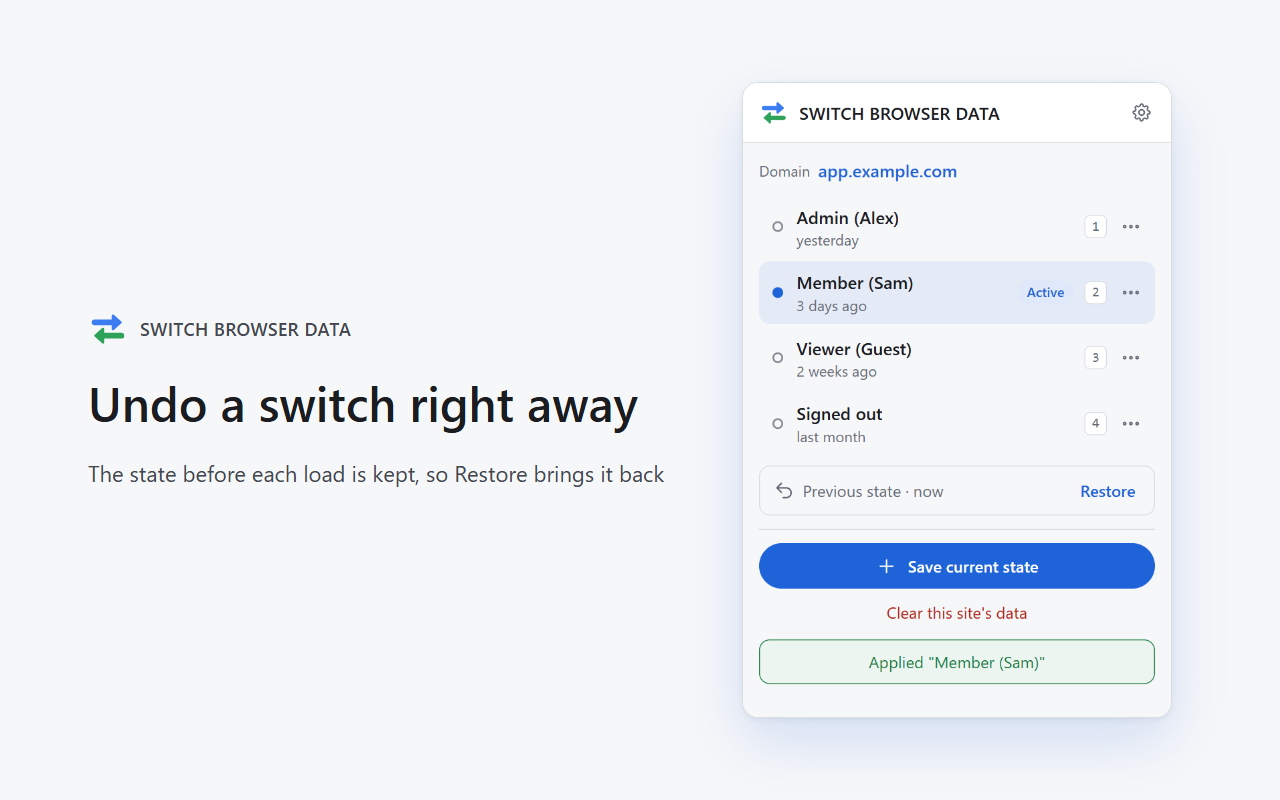
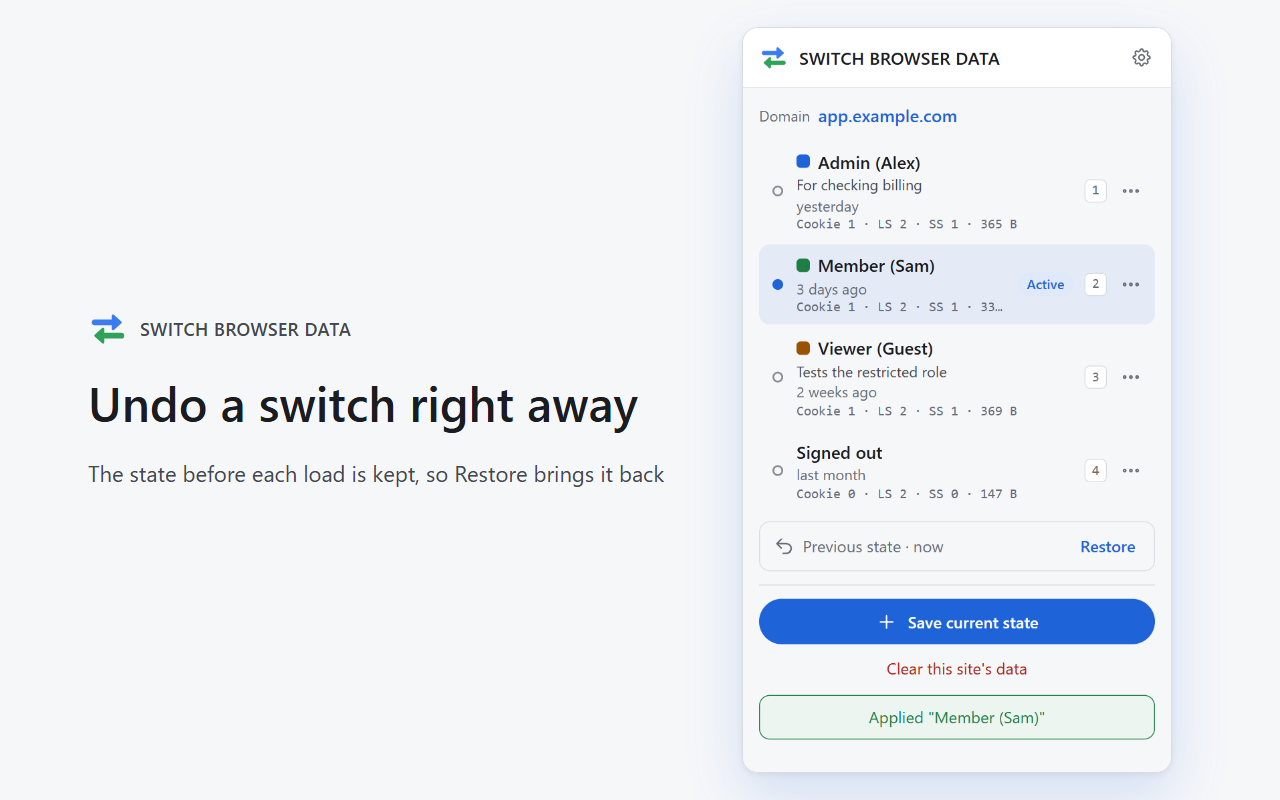
ドキュメント: グループ・メモ・暗号化エクスポートを反映し、ストア用の画像と掲載文を更新する

diff --git a/CLAUDE.md b/CLAUDE.md
@@ -22,6 +22,9 @@ Chrome / Edge 向けブラウザ拡張機能。ドメインごとに Cookie・lo
 ### スナップショット操作
 
 - **保存**: 「現在の状態を保存」から名前を入力して保存する。既存の名前なら上書き確認後に上書き。各行のメニューの「現在の状態で上書き」でも上書きできる
+  - 保存フォームでメモ（1行・100文字まで）と色ラベル（赤・橙・緑・青の4色。明暗の両方に値がある `--tk-*` の色だけ）を付けられる。行メニューの「メモと色を編集」で後から変える。上書きしてもメモと色は引き継ぐ。書き込むときはいつも `cleanDetails`（`lib/snapshot-summary.js`）を通し、改行は空白に、100文字を超える分は切り、一覧にない色は捨てる（インポートも同じ）
+  - 色ラベルは名前の前の小さなチップ。行頭の点は「適用中・変更あり」を表すので、色ラベルには使わない
+- **中身のプレビュー**: 各行にメモと `Cookie 12 · LS 4 · SS 1 · IDB 2 · 34.0 KB` のような件数と大きさを出す（`summarize`）。0件の種類は `LS 0` と出し、スナップショットにない種類は出さない。保存した Cookie に期限切れのものが1件でもあれば、控えめな警告アイコンを出す（ログインが切れているかもしれない、という知らせで、読み込みは止めない）。検索はメモにも当たる
 - **読み込み**: 一覧の行をクリック（または数字キー・`Enter`）→ 現在のデータをそのスナップショットに丸ごと置き換え
   - 自動バックアップが有効なら、読み込む直前の状態をドメインごとに1件だけ残し、確認なしで読み込む（「戻す」で復元。戻すと置き換えた状態が新しいバックアップになるので、もう一度押すと元に戻る）。無効なら読み込み前に確認する
   - 自動リロードが有効なら、読み込み後にタブを再読み込みする
@@ -34,7 +37,7 @@ Chrome / Edge 向けブラウザ拡張機能。ドメインごとに Cookie・lo
 - **サイトのデータの消去**: ポップアップの「このサイトのデータを消去」で、設定のデータ種別トグルで有効な種類（Cookie / localStorage / sessionStorage / IndexedDB）を確認後に消す。自動バックアップが有効なら消す前の状態を残し（「戻す」で復元）、適用中の記録を外し、自動リロードの設定に従って再読み込みする。IndexedDB はデータベースごと削除する（ページが接続を開いたままなら削除は予約され、再読み込みで完了する。自動リロードがオフならその旨を表示する）
   - 消す前にコンテンツスクリプトに届くか確かめ（`ping`）、届かなければ何も消さず、バックアップも上書きしない。消す順番はページの保存領域が先で Cookie が後（途中で失敗しても Cookie だけ消えた状態にしない）
   - 読み込み直後の Cookie の確認待ち（`cookieChecks`）は消去時に取り消す（空になった Cookie を「サイトが自分で消した」と覚えないため）
-  - 親ドメイン（例: `app.example.com` に対する `.example.com`）の Cookie は消えない。サイトごとのホスト権限ではその Cookie を読めないため。サブドメインをまとめて扱う #9 で扱う
+  - グループに入るサイトでは、グループの Cookie（`.example.com` と各サブドメインのもの）をまとめて消し、ページの保存領域は今のページの分だけ消す。グループに入らないサイトでは親ドメイン（例: `app.example.com` に対する `.example.com`）の Cookie は消えない（そのサイトのホスト権限ではその Cookie を読めないため。まとめて扱いたいときは設定画面でグループにする）
 - **サイトへのアクセスの許可**: Cookie の読み書きにはサイトごとのホスト権限（`optional_host_permissions`）が要る。Chrome は権限のダイアログを出すとポップアップを閉じてしまい、保存・読み込みの途中で求めるとその操作が知らせなく失われる。そのため、Cookie が有効で権限がまだないときは、ポップアップを開いた時点で一覧の代わりに「アクセスを許可」の案内を出し、許可したらもう一度開くよう伝える。Cookie を使わない人向けに設定画面への導線も置く
 
 ### ドメイン管理
@@ -43,26 +46,55 @@ Chrome / Edge 向けブラウザ拡張機能。ドメインごとに Cookie・lo
 - 設定画面でドメインの追加・削除・一覧管理が可能
 - 保存データはドメインをキーとして `chrome.storage.local` に永続化
 
+### サブドメインのグループ
+
+- 設定画面の「スナップショット」でベースのドメイン（例: `example.com`）をグループにすると、`example.com` と `*.example.com` の Cookie（`.example.com` のドメイン Cookie を含む）をまとめて保存・消去・読み込みする。ホスト権限は `*://example.com/*` と `*://*.example.com/*` の2つ
+- 追加するときは `validateNewGroup`（`lib/groups.js`）で、ドットのない名前・IP アドレス・既存のグループと重なるもの・`co.jp` のような区分（`BROAD_SECOND_LABELS`）・`github.io` のような共有ホスティング（`SHARED_HOST_SUFFIXES`）を断る。一覧は完全にはならないので、確認ダイアログでは毎回、まとめる範囲（`example.com` と `*.example.com`）と「無関係なサイトが共有するドメインには使わない」旨を出す。削除するときは `*://*.example.com/*` の権限だけ外す
+- **グループは保存したデータを動かさない**。スナップショット・並び順・バックアップは保存したホストのキーのまま残り、グループを作っても消してもインポートしても書き換えない。グループはホストをまたいだ「見え方」と Cookie の範囲にすぎない（動かすと、作成・削除・インポートのたびに並び順・適用中・バックアップ・Cookie の扱いを決める必要があり、届かなくなるスナップショットや壊す操作が生まれたため）
+  - ポップアップは、グループに入るホスト（`memberHosts`）のスナップショットを並べる（今のホストが先、ほかはホスト名順、それぞれ保存した順）。行はホストと名前で区別し、ほかのホストの行にはホスト名を出し、「現在の状態で上書き」は出さない（今のページのデータをほかのホストのキーに書いてしまうため）。新しく保存するのはいつも今のホスト
+  - ページの保存領域（localStorage・sessionStorage・IndexedDB）は、スナップショットを保存したホストと今のホストが同じときだけ書き戻す。違えば Cookie だけ適用して、その旨を表示する
+  - グループで保存したスナップショットには集めた Cookie の範囲を `cookieDomain` として残す（ないときは保存したホスト）。読み込み・比較・プレビューでは `cookieDomainFor` でその範囲と今の範囲の狭いほうに絞る。グループを作る前に保存したスナップショットはそのホストの Cookie だけを書き換え、`.example.com` やほかのサブドメインの Cookie は残す。グループを消したあとは、グループで保存したスナップショットもそのホストの範囲だけを扱う
+  - Cookie を書き戻すときは `setCookiesForDomain` が範囲の外の Cookie を捨て（インポートしたデータも含めて1か所で守る）、`.` で始まる Cookie は `domain` を付けてドメイン Cookie として戻す（グループでなくても同じ）
+  - 適用中の記録・`volatileCookies`・`cookieChecks` の `domain` はグループのベースをキーにする（Cookie はグループで共有なので、適用中のスナップショットはグループで1つ）
+
+### 設定画面
+
+- 左に項目（全般 / データ種別 / スナップショット / データ管理）、右にその項目だけを出す2列。`location.hash`（`#general` `#data-types` `#snapshots` `#data`）で開く項目を選び、リンクに `aria-current` を付ける。720px より狭いと項目は上に横並び
+- **使用量のメーター**（スナップショット）: `getBytesInUse(null)` の合計と、大きい順に5ドメイン・バックアップ・その他の積み上げ棒。上限に対する割合の棒は出さない（`unlimitedStorage` で 10 MB の上限は外れているので、上限を描くと実在しない天井に見える。手を打てるのは「どのドメインが大きいか」）。50 MB 以上で「大きいとポップアップが遅くなる」と1行だけ知らせる（ポップアップを開くたびに `snapshots` を丸ごと読み、保存のたびに丸ごと書くので、大きさは容量ではなく速さに効く。50 MB は目安で `METER_ADVISORY_BYTES` の定数1つ）
+- 並び順は「名前 / 大きい順」。大きい順のときは行のドラッグでの並べ替えをしない（見えていない順番を保存してしまうため）。行には色ラベル・メモ・大きさ・保存日時を出す（メモと色の編集はポップアップだけ）
+- **エクスポート**: 全データ・ドメインごと・スナップショットごと。暗号化しないファイルの形はいつも `{ ドメイン: { 名前: スナップショット } }`（古い版でも読める）。グループは書き出さない
+- **暗号化**: 「データ管理」のトグル（`settings.encryptExports`、既定はオフ）をオンにすると、どのエクスポートでもパスフレーズを2回（8文字以上・一致）求める。オフのときはエクスポート後に「ファイルにログイン中のセッションが入っている」と知らせ、トグルを案内する。暗号化するのはエクスポートしたファイルだけで、`chrome.storage.local` は暗号化しない（鍵をデータの横に置くなら守りにならず、ブラウザを開くたびにパスフレーズを求めるとワンクリックで切り替えられなくなるため）
+  - ファイルの形（`lib/crypto.js`）は最上位が配列の JSON: `["switch-browser-data-encrypted", { "version": 1, "kdf": "PBKDF2", "hash": "SHA-256", "iterations": 600000, "salt": "base64", "iv": "base64", "data": "base64" }]`。PBKDF2-SHA-256（60万回）で鍵を作り、AES-GCM-256（salt 16バイト、IV 12バイト）で暗号化する。暗号化より前の版はインポートで配列をすべて断るので、中身をドメインとして混ぜずに失敗する
+  - 読み込めるのは `iterations` が 100,000〜1,000,000 のものだけ（細工したファイルで何秒も止めないため）。パスフレーズ違いは AES-GCM の検証の失敗でわかる。復号した中身がもう一度暗号化ファイルなら断る
+- **インポート**: 256 MB（`IMPORT_MAX_BYTES`）を超えるファイルは読む前に断る。`parseImport`（`lib/transfer.js`）は形が `{ ドメイン: { 名前: オブジェクト } }` でない、`__proto__` `constructor` `prototype` のキーがある、`savedAt` が日時として読めない、`cookies` がオブジェクトの配列でない、ストレージの種類がオブジェクトでない、のどれかでファイルごと断る。メモと色は `cleanDetails` で整え、文字列でない `cookieDomain` は捨てる
+  - 同じドメイン・同じ名前があれば、ファイル全体で1回だけ「上書き / スキップ / 両方残す（`名前 (2)` …）/ キャンセル」を選ぶ。上書きは並び順の位置を保ち、新しい名前は末尾に足す。ドメインのキーはファイルのまま書く
+- 全データ削除は `settings` と `groups` を残す（どちらも設定のため）
+
 ### UI 構成
 
 ```mermaid
 graph TD
   popup["ポップアップ"]
-  popup --> domain["現在のドメイン表示"]
-  popup --> search["検索ボックス｜5件以上のとき表示。/ でフォーカス"]
-  popup --> list["スナップショット一覧｜行クリックで読み込み、適用中・変更ありのバッジ"]
-  list --> row_menu["行メニュー｜現在の状態で上書き / 名前を変更 / 削除"]
+  popup --> domain["現在のドメイン表示｜グループならグループのチップ"]
+  popup --> search["検索ボックス｜5件以上のとき表示。/ でフォーカス。名前とメモに当たる"]
+  popup --> list["スナップショット一覧｜行クリックで読み込み、色ラベル・メモ・中身のプレビュー・期限切れの警告、適用中・変更ありのバッジ。グループならほかのホストの行も"]
+  list --> row_menu["行メニュー｜現在の状態で上書き（今のホストの行だけ） / メモと色を編集 / 名前を変更 / 削除"]
   popup --> undo["切り替え前の状態に戻す"]
-  popup --> save["現在の状態を保存｜名前を入力して保存"]
+  popup --> save["現在の状態を保存｜名前・メモ・色を入力して保存"]
   popup --> clear_site["このサイトのデータを消去（確認あり）"]
   popup --> settings_btn["設定ボタン"]
-  settings_btn --> options["設定画面 options.html"]
+  settings_btn --> options["設定画面 options.html｜左に項目、右にその内容"]
 
-  options --> domain_list["ドメイン一覧（削除）"]
-  options --> toggles["データ種別トグル｜Cookie / localStorage / sessionStorage / IndexedDB"]
-  options --> behavior["動作トグル｜自動バックアップ / 自動リロード / アイコンのバッジ"]
-  options --> export_import["一括エクスポート / インポート"]
-  options --> clear["全データ削除"]
+  options --> general["全般｜言語 / 動作トグル（自動バックアップ / 自動リロード / アイコンのバッジ）"]
+  options --> toggles["データ種別｜Cookie / localStorage / sessionStorage / IndexedDB"]
+  options --> snapshots_pane["スナップショット"]
+  snapshots_pane --> meter["使用量のメーター"]
+  snapshots_pane --> groups["サブドメインのグループ（追加・削除）"]
+  snapshots_pane --> domain_list["ドメイン一覧｜名前順 / 大きい順、エクスポート・名前の変更・削除"]
+  options --> data_pane["データ管理"]
+  data_pane --> encrypt["エクスポートの暗号化トグル"]
+  data_pane --> export_import["全データのエクスポート / インポート"]
+  data_pane --> clear["全データ削除"]
 ```
 
 ## ディレクトリ構成
@@ -99,6 +131,10 @@ graph TD
   lib --> rename_js["inline-rename.js｜その場での名前変更（ポップアップ・設定画面で共通）"]
   lib --> digest_js["storage-digest.js｜データのハッシュ（コンテンツスクリプトとポップアップで共通の非モジュール）"]
   lib --> volatile_js["volatile-cookies.js｜サイトが自分で書き換える Cookie の記録"]
+  lib --> summary_js["snapshot-summary.js｜件数・大きさの集計、メモと色の整形"]
+  lib --> groups_js["groups.js｜サブドメインのグループと Cookie の範囲"]
+  lib --> transfer_js["transfer.js｜エクスポート・インポートの組み立てと検証"]
+  lib --> crypto_js["crypto.js｜エクスポートファイルの暗号化（Web Crypto）"]
   lib --> etc_js["badge.js / time.js / dialog.js / i18n.js / ui.js"]
   lib --> tk_base["tk-base.css｜tk3 apps の共通デザインの土台（手を加えない）"]
 
@@ -146,6 +182,10 @@ graph TD
     "example.com": {
       "スナップショット名": {
         "savedAt": "ISO 8601 timestamp",
+        "memo": "1行・100文字まで（任意）",
+        "color": "red | amber | green | blue（任意）",
+        // 集めた Cookie の範囲（グループで保存したときだけ。ないときはこのキーのホスト）
+        "cookieDomain": "example.com",
         "cookies": [ /* CookieDetails[] */ ],
         "localStorage": { "key": "value", ... },
         "sessionStorage": { "key": "value", ... },
@@ -154,21 +194,26 @@ graph TD
     }
   },
   "snapshotOrder": { "example.com": ["スナップショット名", ...] },
-  "activeSnapshots": { "example.com": "スナップショット名" },
-  // サイトが自分で書き換える Cookie。"value": 有無だけ比べる / "any": 比べない
+  // グループのベースでは、どのホストのスナップショットかも残す { host, name }
+  "activeSnapshots": { "example.org": "スナップショット名", "example.com": { "host": "app.example.com", "name": "スナップショット名" } },
+  // サブドメインのグループ（ベースのドメイン）。全データ削除でも消さない
+  "groups": ["example.com"],
+  // サイトが自分で書き換える Cookie（グループならベースがキー）。"value": 有無だけ比べる / "any": 比べない
   "volatileCookies": { "example.com": { "example.com|/|名前": "value" } },
-  // 読み込み直後の Cookie の確認待ち（タブ ID ごと、60秒で期限切れ）
-  "cookieChecks": { "123": { "domain": "example.com", "cookies": [], "until": 0 } },
+  // 読み込み直後の Cookie の確認待ち（タブ ID ごと、60秒で期限切れ）。origins は確認に要る権限、
+  // cookieDomain は今の Cookie を読む範囲。どちらもない古い記録は domain のホストだけで確かめる
+  "cookieChecks": { "123": { "domain": "example.com", "cookies": [], "origins": ["*://example.com/*", "*://*.example.com/*"], "cookieDomain": "example.com", "until": 0 } },
   // 読み込み直前の状態。ドメインごとに1件。スナップショット一覧・エクスポートには含めない
   "backups": {
     "example.com": { "savedAt": "...", "activeName": "スナップショット名 | null", "cookies": [], ... }
   },
-  // 保存されていないキーは既定値（すべて true）で補う。トグルを変えたらその場で保存する
+  // 保存されていないキーは既定値（encryptExports だけ false、ほかは true）で補う。トグルを変えたらその場で保存する
   "settings": {
     "enabledTypes": { "cookies": true, "localStorage": true, "sessionStorage": true, "indexedDB": true },
     "autoBackup": true,
     "autoReload": true,
-    "showBadge": true
+    "showBadge": true,
+    "encryptExports": false
   }
 }
 ```
@@ -210,6 +255,7 @@ graph TD
 - **ユニットテスト**: [Vitest](https://vitest.dev/)。`tests/unit/` に配置。対象は `lib/` 配下のロジックに加え、`popup/popup.js` `options/options.js`（jsdomにHTMLを読み込み、DOM操作込みで検証）。`chrome.*` API は `tests/support/chrome-mock.js` のインメモリモックを使う。`var` グローバルとして書かれた非モジュールスクリプト（`lib/web-storage-handlers.js` `lib/indexeddb-handler.js` `lib/storage-digest.js` `content/content-script.js`）は `import` できないため、`tests/support/load-script.js` でソースを読み込み `Function` コンストラクタでスコープを分離しつつ実行し、生成されたハンドラを取り出してテストする
 - **E2Eテスト**: [Playwright](https://playwright.dev/)。`launchPersistentContext` に `--load-extension` を渡して本拡張機能を実際の Chromium に読み込み、ポップアップ・設定画面の操作を検証する。テストページのポートは `tests/e2e/test-page.js` に集約されており、`TK3_E2E_PORT` で上書きできる
   - Cookie の読み取りに要るホスト権限は実行時に Chrome のダイアログで求めるが、Playwright はこれを操作できない。Cookie を扱うテスト（`tests/e2e/cookies.spec.js`）は `test.use({ grantHostPermissions: true })` で、manifest にホスト権限を足した拡張機能のコピーを一時フォルダに作って読み込む。テストページの `/cookies/` は毎回値の変わる `csrf` と、`/cookies/login?user=名前` でだけ変わる `sid` を返す
+  - グループのテスト（`tests/e2e/groups.spec.js`）は `--host-resolver-rules` で `example.test` と `*.example.test` をテストサーバーに向ける（`localhost` ではドメイン Cookie が当てにならないため）。`/group/login?user=名前` は `Domain=example.test` の `gsid` を返す
 - **実装中に手元で流すテストは、変更に関係するものだけにする**（例: `npx vitest run tests/unit/popup.test.js`、`npx playwright test tests/e2e/popup.spec.js`）。全テストは CI（GitHub Actions）で流すので、手元で `npm test` や `npm run test:e2e` を丸ごと流さなくてよい
 - テスト用の依存関係（Vitest, Playwright, jsdom, fake-indexeddb など）は devDependencies としてのみ追加可。拡張機能本体のランタイムコードに外部ライブラリを追加することは引き続き禁止
 

diff --git a/store/listing.md b/store/listing.md
@@ -1,4 +1,4 @@
-# Chrome Web Store 掲載情報（v1.0.20）
+# Chrome Web Store 掲載情報（v1.0.31）
 
 画像は `node store/generate.mjs` で作り直せる（実際の拡張機能を読み込んで撮影し、`store/images/` に書き出す）。
 
@@ -11,7 +11,7 @@
 | スクリーンショット（英語） | `images/en/screenshot-1.png` 〜 `screenshot-5.png` | 1280×800 |
 | プロモーション タイル（小） | `images/ja/promo-small.png` / `images/en/promo-small.png` | 440×280 |
 
-スクリーンショットの並び: 1 一覧と切り替え / 2 切り替え前に戻す / 3 変更あり / 4 行のメニュー / 5 設定画面
+スクリーンショットの並び: 1 一覧と切り替え（色ラベル・メモ・中身のプレビュー） / 2 切り替え前に戻す / 3 変更あり / 4 サブドメインのグループ / 5 設定画面（使用量のメーター・グループ・ドメイン一覧）
 
 ## 概要（manifest の description。ストアの一覧に出る短い説明・132 文字以内）
 
@@ -34,12 +34,17 @@
 ・データの消去：今のサイトのデータをまとめて消して、未ログインの状態からやり直せます（消す前の状態も「戻す」で戻せます）
 ・適用中の表示：今どのスナップショットを使っているかを一覧とツールバーのアイコンに表示
 ・変更の検知：適用中のスナップショットとあとから違いが出たら「変更あり」を表示し、何が変わったかがわかります。サイトが自分で書き換える Cookie は自動で比較から外し、手動で外すこともできます
-・上書き・名前の変更・削除・並べ替え、エクスポート／インポート
+・メモと色ラベル：スナップショットに一言メモと色を付けられます。各行に Cookie などの件数と大きさを表示し、期限切れの Cookie があれば知らせます
+・サブドメインのグループ：example.com と *.example.com の Cookie をまとめて保存・切り替えできます
+・上書き・名前の変更・削除・並べ替え
+・エクスポート／インポート：全体・サイトごと・スナップショットごとに書き出せ、パスフレーズで暗号化もできます。取り込むときに同じ名前があれば、上書き・スキップ・両方残すを選べます
+・使用量の表示：どのサイトのデータが大きいかを設定画面で確かめられます
 ・保存するデータの種類や、自動バックアップ・自動リロードを設定で選べます
 ・日本語／英語、ライト／ダークに対応
 
 ■ データの扱い
 保存したデータはすべてお使いのブラウザの中（chrome.storage.local）にだけ置かれ、外部に送信することはありません。
+エクスポートしたファイルにはログイン中のセッションが含まれます。人に渡すときは暗号化してください。
 Cookie を扱うため、初めて使うサイトではそのサイトへのアクセスの許可を求めます。
 ```
 
@@ -55,12 +60,17 @@ FEATURES
 • Clear a site: wipe the site's data to start signed out, and Restore it if needed
 • Active snapshot: the list and the toolbar icon show which snapshot is in use
 • Change detection: when the data differs from the active snapshot, "Changed" shows what changed. Cookies the site rewrites by itself are left out automatically, or by hand
-• Overwrite, rename, delete and reorder; export and import
+• Memo and color labels: add a short note and a color to each snapshot. Each row shows its item counts and size, and warns when a saved cookie has expired
+• Subdomain groups: save and switch the cookies of example.com and *.example.com together
+• Overwrite, rename, delete and reorder
+• Export and import: export everything, one site or one snapshot, optionally encrypted with a passphrase. On import, choose to overwrite, skip or keep both when names clash
+• Storage usage: see which sites take the most space in the settings
 • Choose which data types to save, and turn automatic backup and reload on or off
 • Japanese and English, light and dark
 
 YOUR DATA
 Everything you save stays in your browser (chrome.storage.local) and is never sent anywhere.
+Exported files contain your signed-in sessions; encrypt them before sharing.
 Because it handles cookies, the extension asks for access to a site the first time you use it there.
 ```
 
@@ -82,7 +92,7 @@ Because it handles cookies, the extension asks for access to a site the first ti
 
 英語で入力する場合: `Snapshots are copies of the site data the user chooses to save (cookies, localStorage, sessionStorage, IndexedDB), so their size depends on the site; IndexedDB alone can be tens of MB. Several snapshots per site plus one pre-switch backup can exceed the 10 MB chrome.storage.local quota, which would make saving fail. All data stays on the device.`
 | `tabs` | 開いているタブのドメインを調べてそのサイトのスナップショットを表示し、読み込み後にタブを再読み込みし、ツールバーのアイコンに適用中の名前を出すため |
-| ホスト権限（`optional_host_permissions`） | そのサイトの Cookie を読み書きするため。ユーザーが許可したサイトにだけ使う |
+| ホスト権限（`optional_host_permissions`） | そのサイトの Cookie を読み書きするため。ユーザーが許可したサイトにだけ使う。サブドメインのグループ（v1.0.31 で追加）では、ユーザーが選んだドメインとそのサブドメイン（`*://example.com/*` と `*://*.example.com/*`）を求める。どちらも実行時の許可で、インストール時の権限は増えない |
 | コンテンツスクリプト（全サイト） | そのページの localStorage・sessionStorage・IndexedDB を読み書きするため |
 
 `scripting` と `activeTab` は使っていなかったので v1.0.20 で外した（外す方向の変更なので、ユーザーへの確認は出ない）。ダッシュボードにこの2つの理由の欄が残っていれば消す。
